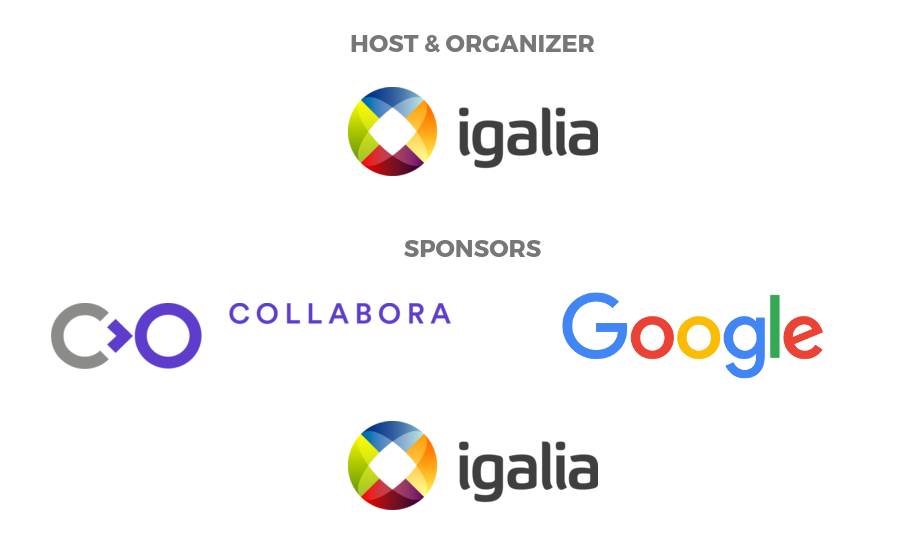
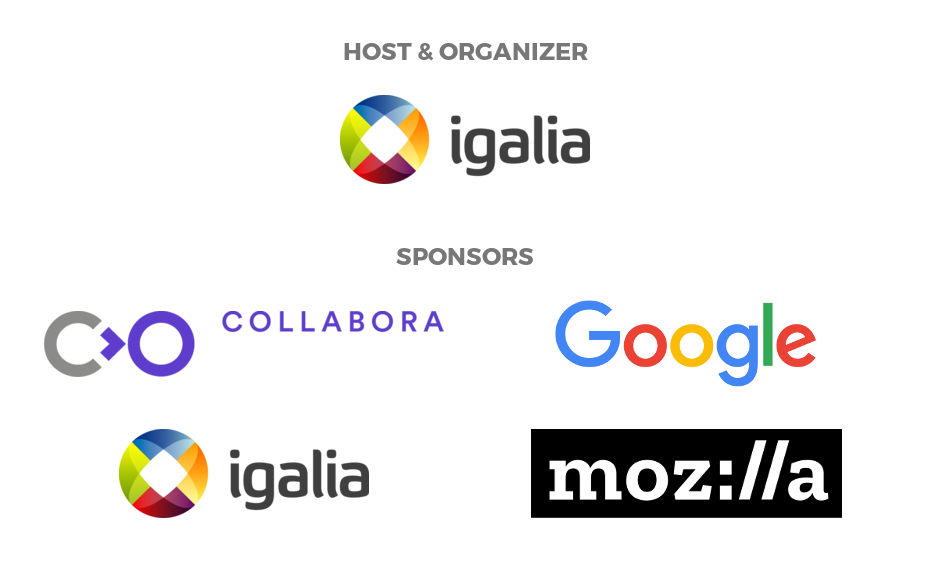
Add Mozilla as hackfest sponsor

diff --git a/index.html b/index.html
@@ -441,6 +441,9 @@
                 <a href="https://www.igalia.com">
                     <img src="img/logos/logo-igalia.png" title="Igalia" alt="Igalia Logo">
                 </a>
+                <a href="https://www.mozilla.org">
+                    <img src="img/logos/logo-mozilla.png" title="Mozilla" alt="Mozilla Logo">
+                </a>
             </div>
         </div>
     </section>
